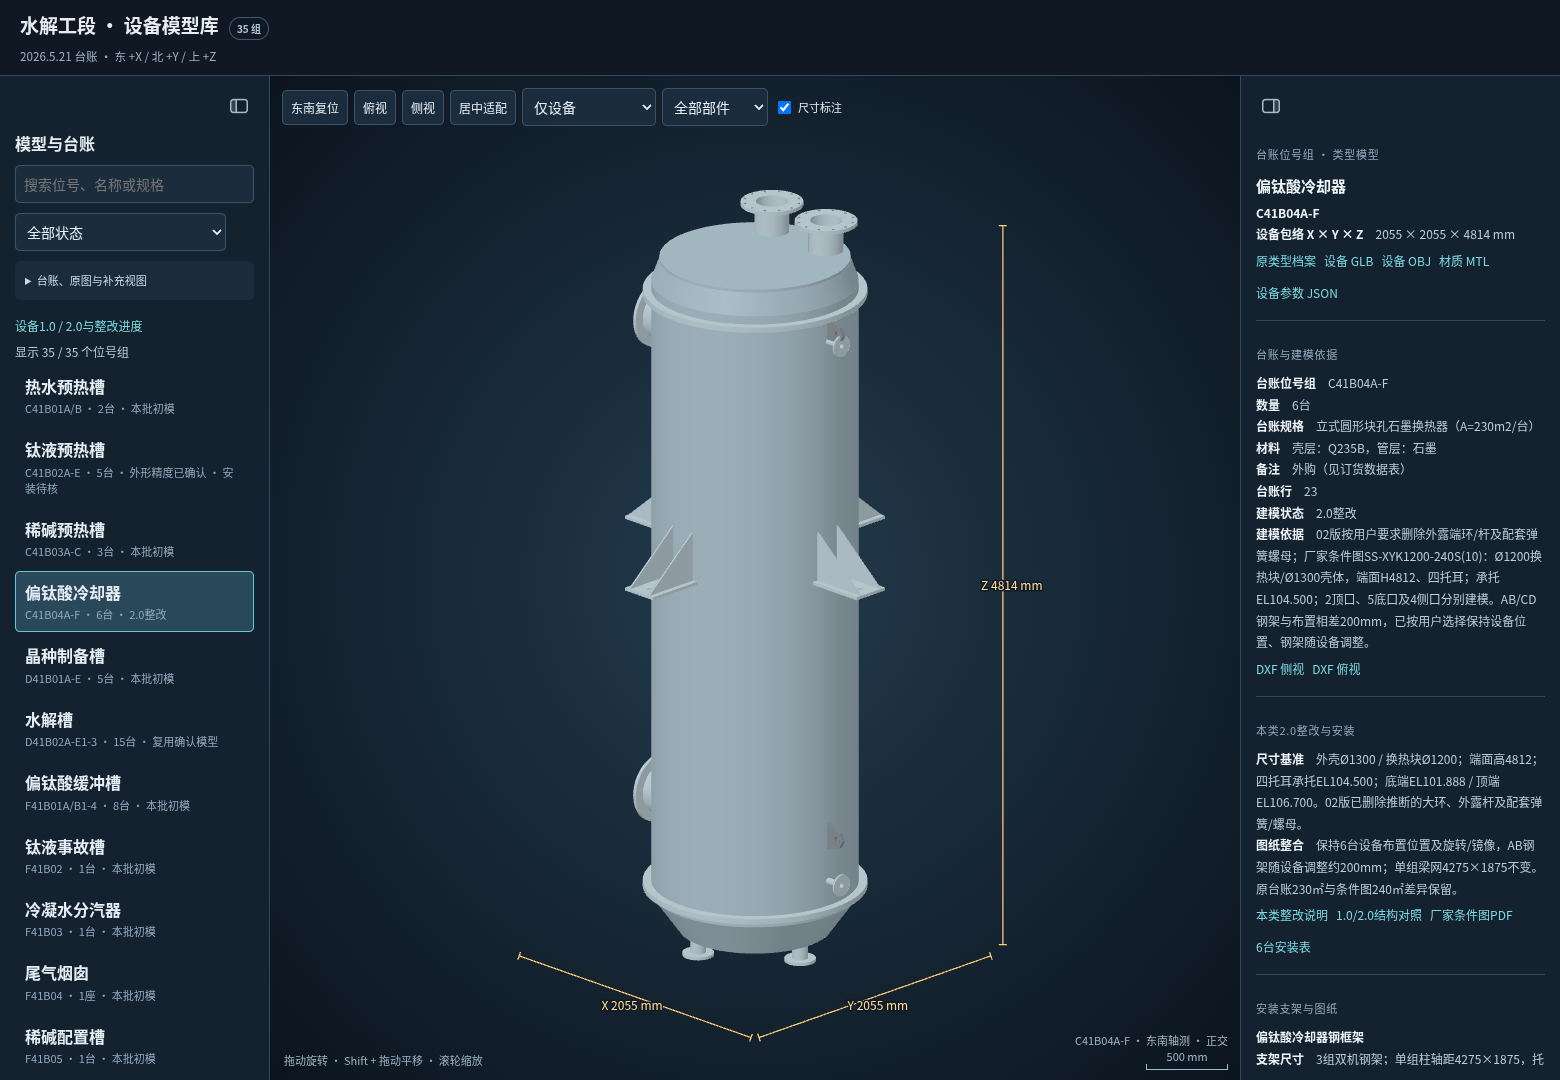
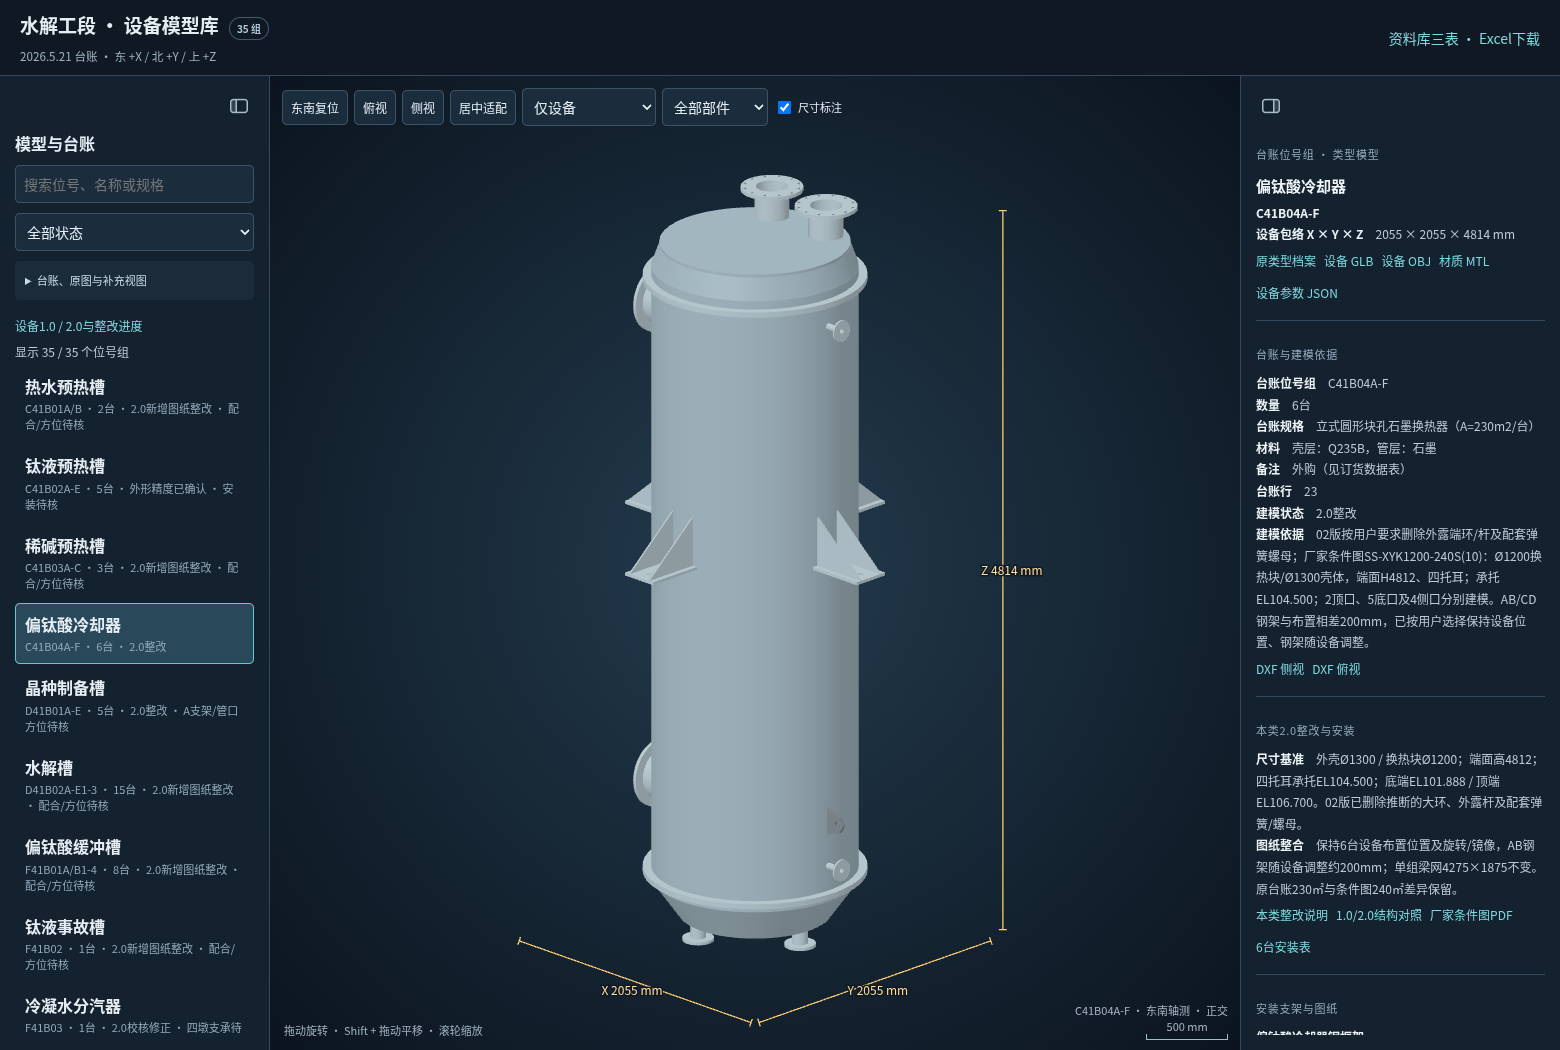
fix(viewer): invalidate cached C41B04 upper-eye model

diff --git a/水解总装工程/index.html b/水解总装工程/index.html
@@ -3,4 +3,4 @@
 <div class="layout"><aside class="left"><h2>组合显示</h2><label><input type="checkbox" id="equipment" checked>设备模型 <em>正式模型库</em></label><label><input type="checkbox" id="bridge" checked>三层桥架 <em>2.0</em></label><label><input type="checkbox" id="structure" checked>厂房立柱</label><label><input type="checkbox" id="frame" checked>厂房梁架</label><label><input type="checkbox" id="stairs" checked>四角楼梯与栏杆</label><label><input type="checkbox" id="rooms" checked>房间与附属立柱</label><label><input type="checkbox" id="foundations" checked>基础与设备钢架</label><label>外墙与门窗<select id="shell"><option value="solid">实体外观</option><option value="transparent">透明查看内部</option><option value="hidden">隐藏外墙</option></select></label><label><input type="checkbox" id="roof" checked>屋面与楼梯间</label><label><input type="checkbox" id="floors" checked>楼板（淡化显示）</label><label>楼板显示强度 <output id="floorAlphaValue">7%</output><input type="range" id="floorAlpha" min="2" max="22" value="7" step="1"></label><hr><h2>标高与剖切</h2><label>显示区间<select id="floor"><option value="all">全部标高</option><option value="100">EL100 — 106</option><option value="106">EL106 — 112</option><option value="112">EL112 — 123</option><option value="123">EL123 以上</option></select></label><label>上剖切 <output id="cutValue">EL150.0</output><input type="range" min="100" max="150" step="0.1" value="150" id="cut"></label><label><input type="checkbox" id="labels">设备位号</label><p class="note">楼板按 EL100/106/112/123 显示；吊装孔已按建施图切空；透明强度可调。</p><hr><div class="tabs"><button id="objectsTab" class="active">构件</button><button id="issuesTab">穿入项</button><button id="pendingTab">待定位</button></div><select hidden id="issueScope" aria-label="穿入检查范围"><option value="bridge-column">桥架与立柱</option><option value="all">全部检查对象</option><option value="bridge-contact">桥架表面接触（正常）</option></select><input id="search" type="search" placeholder="搜索位号、名称或桥架编号" aria-label="搜索构件"><div id="list"></div></aside>
 <main><canvas id="scene" aria-label="厂房、桥架与设备三维总装"></canvas><canvas id="overlay"></canvas><div class="toolbar"><button id="reset">东南复位</button><button id="top">北向俯视</button><button id="inside">内部总览</button><button id="focus">聚焦选中</button><button id="isolate" aria-pressed="false">隔离选中</button><button id="clear">取消选中</button></div><div id="loading">正在加载总装模型…</div><div class="caption"><b id="viewName">东南轴测</b><span>拖动旋转 · Shift 拖动平移 · 滚轮缩放</span></div><div id="scale"></div></main>
 <aside class="right"><h2>空间核对</h2><div id="summary"></div><div class="status">总装修订 · 表面接触正常，穿入单列</div><p class="note">暖色设备的安装基准待核；管口朝向需逐项核实。未定位设备不显示、不进入碰撞检查。</p><hr><h2 id="selectionTitle">选择构件查看位置</h2><div id="details"><p class="note">从左侧搜索设备或桥架，或点击图中设备标记。相交项可同时高亮两件构件。</p></div><hr><h2>校核范围</h2><p class="note">检查桥架与设备、立柱，以及设备之间的几何相交。相交项需核实是否属于正常接触。桥架与立柱仅表面接触为正常；穿入柱体内部才列为冲突。吊装孔已切空；新增楼梯、房间、梁架未纳入本页原主体柱穿入清单，检修空间不在检查范围。</p><a href="data/碰撞报告.json" download>下载穿入与接触报告 ↓</a><a href="data/设备就位表.json" download>下载设备就位表 ↓</a><a href="data/桥架立柱核对.json">查看桥架与立柱专项核对 ↗</a><a href="data/布置复核.json">查看设备布置复核 ↗</a><a href="data/对齐依据.json">查看对齐依据 ↗</a><a href="README.md">总装说明 ↗</a></aside></div>
-<script src="../水解桥架工程/models/整体/viewer_data.js"></script><script src="data/assembly.js"></script><script src="../厂房外观模型/建筑/model_data.js"></script><script src="data/building.js"></script><script src="data/collisions.js"></script><script src="../厂房外观模型/建筑/building_style.js"></script><script src="../厂房外观模型/建筑/building_measure.js"></script><script src="viewer.js"></script></body></html>
+<script src="../水解桥架工程/models/整体/viewer_data.js"></script><script src="data/assembly.js"></script><script src="../厂房外观模型/建筑/model_data.js"></script><script src="data/building.js"></script><script src="data/collisions.js"></script><script src="../厂房外观模型/建筑/building_style.js"></script><script src="../厂房外观模型/建筑/building_measure.js"></script><script src="viewer.js?v=c41b04-1d56838"></script></body></html>

diff --git a/水解总装工程/viewer.js b/水解总装工程/viewer.js
@@ -45,7 +45,7 @@ canvas.onpointerdown=e=>{if(e.button!==0)return;drag={id:e.pointerId,x:e.clientX
 // Mesh assets are loaded serially because legacy files publish a shared global.
 const loaded=new Map();for(const [key,a] of Object.entries(cfg.assets)){
 $('loading').textContent='加载类型模型 '+(assets.size+1)+' / '+Object.keys(cfg.assets).length;
-let parts=loaded.get(a.path);if(!parts){parts=await new Promise((resolve,reject)=>{const s=document.createElement('script');window.MODEL_PARTS=undefined;s.src=a.path;s.onload=()=>{s.remove();if(!Array.isArray(window.MODEL_PARTS))reject(Error('模型文件无有效网格：'+a.path));else resolve(window.MODEL_PARTS);};s.onerror=()=>reject(Error('模型加载失败：'+a.path));document.head.append(s);});loaded.set(a.path,parts);}assets.set(key,compile(parts));}
+let parts=loaded.get(a.path);if(!parts){parts=await new Promise((resolve,reject)=>{const s=document.createElement('script');window.MODEL_PARTS=undefined;s.src=a.path+(a.path.includes("版本/2.0/C41B04/设备/")?"?v=1d56838":"");s.onload=()=>{s.remove();if(!Array.isArray(window.MODEL_PARTS))reject(Error('模型文件无有效网格：'+a.path));else resolve(window.MODEL_PARTS);};s.onerror=()=>reject(Error('模型加载失败：'+a.path));document.head.append(s);});loaded.set(a.path,parts);}assets.set(key,compile(parts));}
 for(const p of cfg.equipment)add(p.id,p.name,'equipment',p.asset,p.position_mm,p.rotation_deg,p);for(const p of cfg.foundations)add(p.id,p.name,'foundation',p.asset,p.position_mm,p.rotation_deg,p);
 for(const g of window.GEOMETRY){const part=window.ASSEMBLY.parts.find(p=>p.id===g.id);assets.set(g.id,compile([{vertices:g.v,faces:g.f,color:({1:'#73c6d0',2:'#ddba7d',3:'#b6a4d2'})[part.layer]}]));add(g.id,part.label||'桥架','bridge',g.id);}
 for(const p of window.ASSEMBLY_BUILDING){assets.set(p.name,compile([p],true));add(p.name,p.name,p.kind,p.name,[0,0,0],0,p);}

diff --git a/水解设备模型库/library_viewer.js b/水解设备模型库/library_viewer.js
@@ -305,7 +305,7 @@ function loadParts(dir) {
   if (meshCache.has(dir)) return meshCache.get(dir);
   const request=new Promise((resolve,reject)=>{
     const script=document.createElement('script');
-    script.src=dir+'model_data.js';
+    script.src=dir+'model_data.js'+(dir.includes('版本/2.0/C41B04/设备/')?'?v=1d56838':'');
     script.onload=()=>{
       const mesh=window.MODEL_PARTS;
       delete window.MODEL_PARTS;

diff --git a/水解设备模型库/index.html b/水解设备模型库/index.html
@@ -71,5 +71,5 @@ details{margin:10px 0}summary{cursor:pointer;color:#c6dce7}
 <script src="../水解桥架工程/models/设备/设备基础_20261106/foundation_data.js"></script>
 <script src="orthographic_viewer.js"></script>
 <script src="equipment_versions.js"></script>
-<script src="library_viewer.js"></script>
+<script src="library_viewer.js?v=c41b04-1d56838"></script>
 </body></html>
